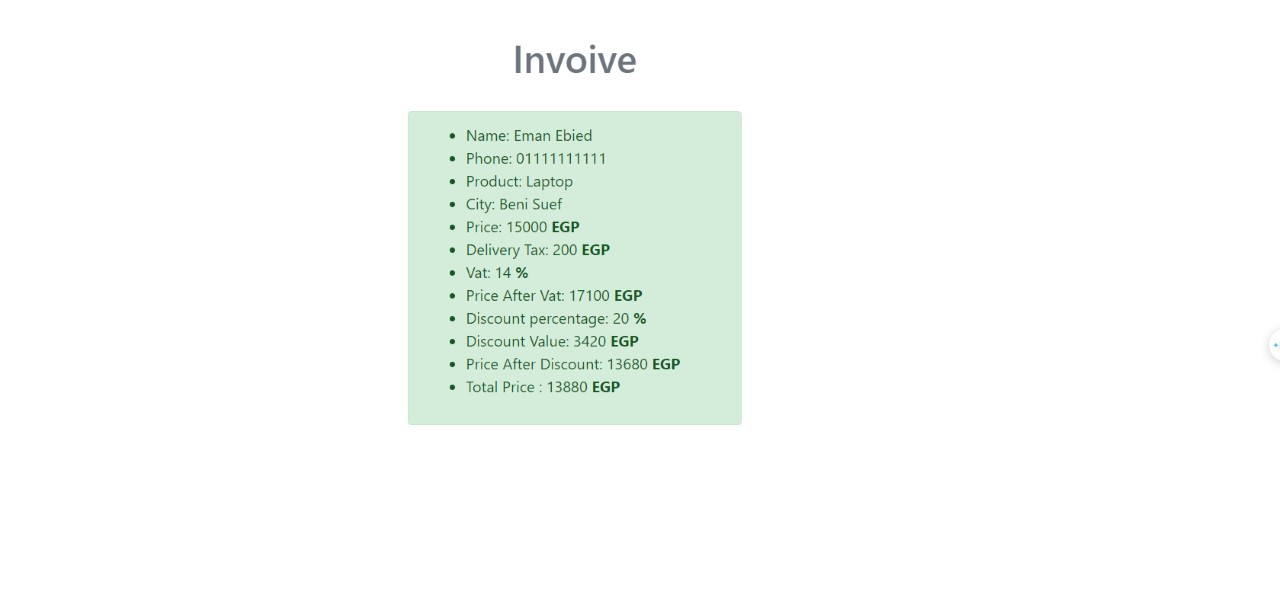
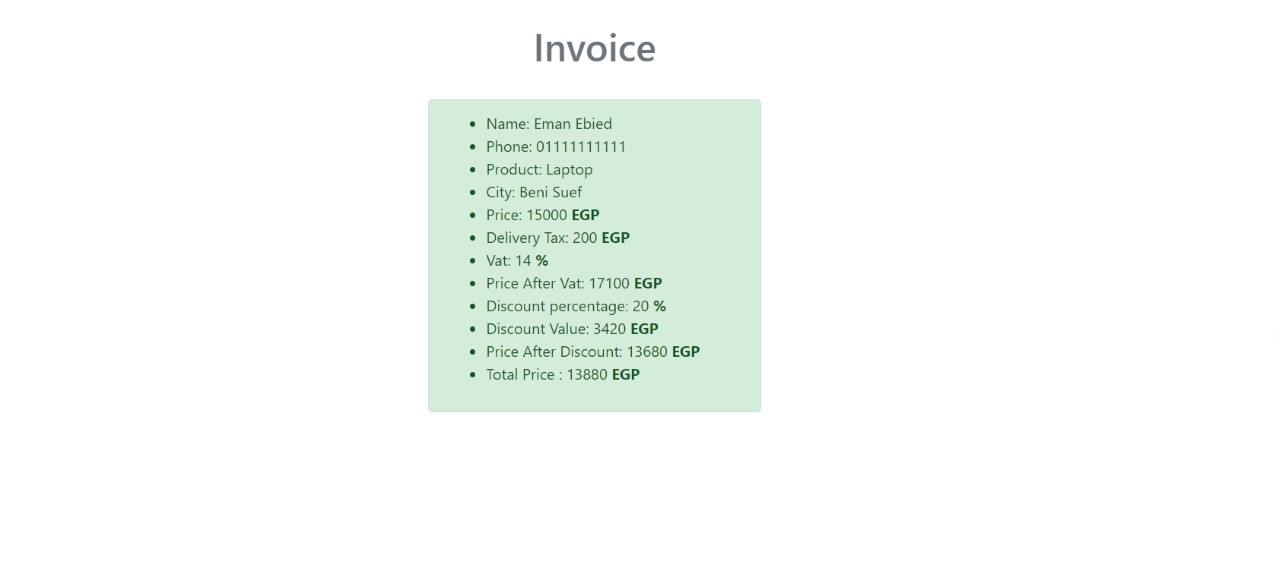
Update README

Changed region(s): [[0.3125, 0.1541, 0.5938, 0.7089], [0.375, 0.0616, 0.5312, 0.1233]]

diff --git a/invoice.php b/invoice.php
@@ -63,7 +63,7 @@ $totalPrice = $priceAfterDiscount + $delivery;
     <div class="container">
         <div class="row">
             <div class="col-12 mt-5">
-                <h1 class="text-center text-secondary">Invoive</h1>
+                <h1 class="text-center text-secondary">Invoice</h1>
             </div>
             <div class="col-4 offset-4 mt-4">
                 <div class="alert alert-success" role="alert">

diff --git a/README.md b/README.md
@@ -22,7 +22,7 @@ ShopEase is a simple PHP application that allows users to select a product, prov
 
 ### Invoice Page
 
-![invoice](https://github.com/user-attachments/assets/7bb02dc7-0be9-4519-b361-27bac510fc76)
+![invoice](https://github.com/user-attachments/assets/0c693066-3de4-40da-a561-99a2ce5ba4c0)
 
 ## Installation
 
